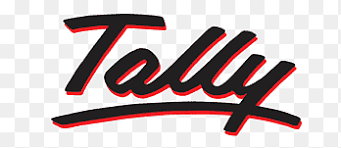
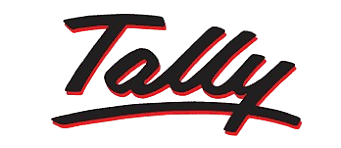
template slider done, images added in integration.

diff --git a/frontend/pages/index.jsx b/frontend/pages/index.jsx
@@ -15,7 +15,8 @@ import {
   FiBriefcase, FiTarget, FiCheck, FiZap, FiSmartphone, 
   FiAward, FiMail, FiPhone, FiMapPin, FiArrowRight,
   FiShield, FiUsers, FiStar, FiPackage, FiRefreshCw,
-  FiShare2, FiPrinter, FiDownload, FiLayers, FiSettings, FiUpload
+  FiShare2, FiPrinter, FiDownload, FiLayers, FiSettings, FiUpload,
+  FiChevronLeft, FiChevronRight
 } from 'react-icons/fi';
 import Image from 'next/image';
 
@@ -25,6 +26,7 @@ export default function LandingPage() {
   const [loading, setLoading] = useState(true);
   const [reviews, setReviews] = useState([]);
   const [reviewsLoading, setReviewsLoading] = useState(true);
+  const [currentSlide, setCurrentSlide] = useState(0);
   
   useEffect(() => {
     // Set client register URL only on client side
@@ -128,6 +130,19 @@ export default function LandingPage() {
       });
     };
   }, []);
+
+  const nextSlide = () => {
+    const maxSlides = Math.max(0, TEMPLATES.length - 4);
+    setCurrentSlide(prev => prev >= maxSlides ? maxSlides : prev + 1);
+  };
+
+  const prevSlide = () => {
+    setCurrentSlide(prev => prev <= 0 ? 0 : prev - 1);
+  };
+
+  const goToSlide = (index) => {
+    setCurrentSlide(index);
+  };
 
   return (
     <>
@@ -329,30 +344,109 @@ export default function LandingPage() {
                 Tailor made, professional, and hand crafted templates for your business to stand out.
               </p>
             </div>
-            <AnimatedCardGrid
-              className="grid md:grid-cols-2 lg:grid-cols-4 gap-5 max-w-7xl mx-auto"
-              stagger={0.08}
-              ease="power3.out"
-            >
-              {TEMPLATES.map((template) => (
-                <div key={template.id} className="group bg-gradient-to-br from-primary-50 to-white p-5 rounded-xl shadow-sm hover:shadow-md transition-all border border-primary-100 hover:border-primary-200 cursor-pointer">
-                  <div className="aspect-[3/4] bg-white rounded-lg mb-3 flex items-center justify-center border border-gray-200 overflow-hidden relative">
-                    {template.previewImage ? (
-                      <Image
-                        src={template.previewImage}
-                        alt={template.name}
-                        fill
-                        className="object-contain"
-                        sizes="(max-width: 768px) 100vw, (max-width: 1200px) 50vw, 25vw"
-                      />
-                    ) : (
-                      <FiFileText className="text-4xl text-primary-200" />
-                    )}
-                  </div>
-                  <h3 className="text-base font-bold text-gray-900 text-center">{template.name}</h3>
+            
+            {/* Desktop Slider */}
+            <div className="hidden lg:block max-w-7xl mx-auto relative">
+              {/* Navigation Arrows */}
+              {TEMPLATES.length > 4 && (
+                <>
+                  <button
+                    onClick={prevSlide}
+                    disabled={currentSlide === 0}
+                    className={`absolute left-0 top-1/2 -translate-y-1/2 -translate-x-4 z-10 w-12 h-12 bg-white rounded-full shadow-lg border border-gray-200 flex items-center justify-center transition-all group ${
+                      currentSlide === 0 ? 'opacity-50 cursor-not-allowed' : 'hover:bg-primary-50 hover:border-primary-200'
+                    }`}
+                  >
+                    <FiChevronLeft className={`text-xl ${currentSlide === 0 ? 'text-gray-400' : 'text-gray-600 group-hover:text-primary-600'}`} />
+                  </button>
+                  <button
+                    onClick={nextSlide}
+                    disabled={currentSlide >= TEMPLATES.length - 4}
+                    className={`absolute right-0 top-1/2 -translate-y-1/2 translate-x-4 z-10 w-12 h-12 bg-white rounded-full shadow-lg border border-gray-200 flex items-center justify-center transition-all group ${
+                      currentSlide >= TEMPLATES.length - 4 ? 'opacity-50 cursor-not-allowed' : 'hover:bg-primary-50 hover:border-primary-200'
+                    }`}
+                  >
+                    <FiChevronRight className={`text-xl ${currentSlide >= TEMPLATES.length - 4 ? 'text-gray-400' : 'text-gray-600 group-hover:text-primary-600'}`} />
+                  </button>
+                </>
+              )}
+              
+              {/* Slider Container */}
+              <div className="overflow-hidden">
+                <div 
+                  className="flex transition-transform duration-500 ease-in-out"
+                  style={{ 
+                    transform: `translateX(-${currentSlide * 25}%)`,
+                  }}
+                >
+                  {TEMPLATES.map((template, index) => (
+                    <div key={template.id} className="w-1/4 px-2.5 flex-shrink-0">
+                      <div className="group bg-gradient-to-br from-primary-50 to-white p-5 rounded-xl shadow-sm hover:shadow-md transition-all border border-primary-100 hover:border-primary-200 cursor-pointer h-full">
+                        <div className="aspect-[3/4] bg-white rounded-lg mb-3 flex items-center justify-center border border-gray-200 overflow-hidden relative">
+                          {template.previewImage ? (
+                            <Image
+                              src={template.previewImage}
+                              alt={template.name}
+                              fill
+                              className="object-contain"
+                              sizes="(max-width: 768px) 100vw, (max-width: 1200px) 50vw, 25vw"
+                            />
+                          ) : (
+                            <FiFileText className="text-4xl text-primary-200" />
+                          )}
+                        </div>
+                        <h3 className="text-base font-bold text-gray-900 text-center">{template.name}</h3>
+                      </div>
+                    </div>
+                  ))}
                 </div>
-              ))}
-            </AnimatedCardGrid>
+              </div>
+              
+              {/* Dots Indicator */}
+              {TEMPLATES.length > 4 && (
+                <div className="flex justify-center mt-8 space-x-2">
+                  {Array.from({ length: Math.max(0, TEMPLATES.length - 4) + 1 }).map((_, index) => (
+                    <button
+                      key={index}
+                      onClick={() => goToSlide(index)}
+                      className={`w-3 h-3 rounded-full transition-all ${
+                        currentSlide === index 
+                          ? 'bg-primary-600 w-8' 
+                          : 'bg-gray-300 hover:bg-gray-400'
+                      }`}
+                    />
+                  ))}
+                </div>
+              )}
+            </div>
+
+            {/* Mobile/Tablet Grid */}
+            <div className="lg:hidden">
+              <AnimatedCardGrid
+                className="grid md:grid-cols-2 gap-5 max-w-7xl mx-auto"
+                stagger={0.08}
+                ease="power3.out"
+              >
+                {TEMPLATES.map((template) => (
+                  <div key={template.id} className="group bg-gradient-to-br from-primary-50 to-white p-5 rounded-xl shadow-sm hover:shadow-md transition-all border border-primary-100 hover:border-primary-200 cursor-pointer">
+                    <div className="aspect-[3/4] bg-white rounded-lg mb-3 flex items-center justify-center border border-gray-200 overflow-hidden relative">
+                      {template.previewImage ? (
+                        <Image
+                          src={template.previewImage}
+                          alt={template.name}
+                          fill
+                          className="object-contain"
+                          sizes="(max-width: 768px) 100vw, (max-width: 1200px) 50vw, 25vw"
+                        />
+                      ) : (
+                        <FiFileText className="text-4xl text-primary-200" />
+                      )}
+                    </div>
+                    <h3 className="text-base font-bold text-gray-900 text-center">{template.name}</h3>
+                  </div>
+                ))}
+              </AnimatedCardGrid>
+            </div>
           </div>
         </section>
 
@@ -670,10 +764,28 @@ export default function LandingPage() {
               </ScrollFloat>
             </div>
             <div className="grid md:grid-cols-3 lg:grid-cols-6 gap-5 max-w-7xl mx-auto items-center">
-              {['Tally', 'Sandbox API', 'FinBox', 'GST Portal', 'E-Invoice Portal', 'E-Way Bill Portal'].map((partner) => (
-                <div key={partner} className="bg-white p-5 rounded-xl border border-gray-200 hover:border-primary-200 hover:shadow-sm transition text-center">
-                  <div className="h-14 flex items-center justify-center">
-                    <span className="text-base font-medium text-gray-600">{partner}</span>
+              {[
+                { name: 'Tally', image: '/tally.png' },
+                { name: 'Sandbox API', image: '/sanbox.png' },
+                { name: 'FinBox', image: '/finbox.png' },
+                { name: 'GST Portal', image: '/GST.PNG' },
+                { name: 'E-Invoice Portal', image: null },
+                { name: 'E-Way Bill Portal', image: null }
+              ].map((partner) => (
+                <div key={partner.name} className="bg-white p-5 rounded-xl border border-gray-200 hover:border-primary-200 hover:shadow-sm transition text-center">
+                  <div className="h-16 flex items-center justify-center">
+                    {partner.image ? (
+                      <Image
+                        src={partner.image}
+                        alt={partner.name}
+                        width={200}
+                        height={80}
+                        className="max-w-full w-auto object-contain"
+                        style={{ maxHeight: '6rem', minHeight: '100px' }}
+                      />
+                    ) : (
+                      <span className="text-base font-medium text-gray-600">{partner.name}</span>
+                    )}
                   </div>
                 </div>
               ))}

diff --git a/frontend/pages/about.jsx b/frontend/pages/about.jsx
@@ -1,5 +1,6 @@
 import Head from 'next/head';
 import Link from 'next/link';
+import Image from 'next/image';
 import WebsiteHeader from '../components/layouts/WebsiteHeader';
 import WebsiteFooter from '../components/layouts/WebsiteFooter';
 import Chatbot from '../components/chatbot/Chatbot';
@@ -132,10 +133,28 @@ export default function AboutPage() {
               </p>
             </div>
             <div className="grid md:grid-cols-3 lg:grid-cols-6 gap-5 max-w-7xl mx-auto items-center">
-              {['Tally', 'Sandbox API', 'FinBox', 'GST Portal', 'E-Invoice Portal', 'E-Way Bill Portal'].map((partner) => (
-                <div key={partner} className="bg-white p-5 rounded-xl border border-gray-200 hover:border-primary-200 hover:shadow-sm transition text-center">
-                  <div className="h-14 flex items-center justify-center">
-                    <span className="text-base font-medium text-gray-600">{partner}</span>
+              {[
+                { name: 'Tally', image: '/tally.png' },
+                { name: 'Sandbox API', image: '/sanbox.png' },
+                { name: 'FinBox', image: '/finbox.png' },
+                { name: 'GST Portal', image: '/GST.PNG' },
+                { name: 'E-Invoice Portal', image: null },
+                { name: 'E-Way Bill Portal', image: null }
+              ].map((partner) => (
+                <div key={partner.name} className="bg-white p-5 rounded-xl border border-gray-200 hover:border-primary-200 hover:shadow-sm transition text-center">
+                  <div className="h-20 flex items-center justify-center">
+                    {partner.image ? (
+                      <Image
+                        src={partner.image}
+                        alt={partner.name}
+                        width={200}
+                        height={80}
+                        className="max-w-full w-auto object-contain"
+                        style={{ maxHeight: '7rem', minHeight: '40px' }}
+                      />
+                    ) : (
+                      <span className="text-base font-medium text-gray-600">{partner.name}</span>
+                    )}
                   </div>
                 </div>
               ))}
